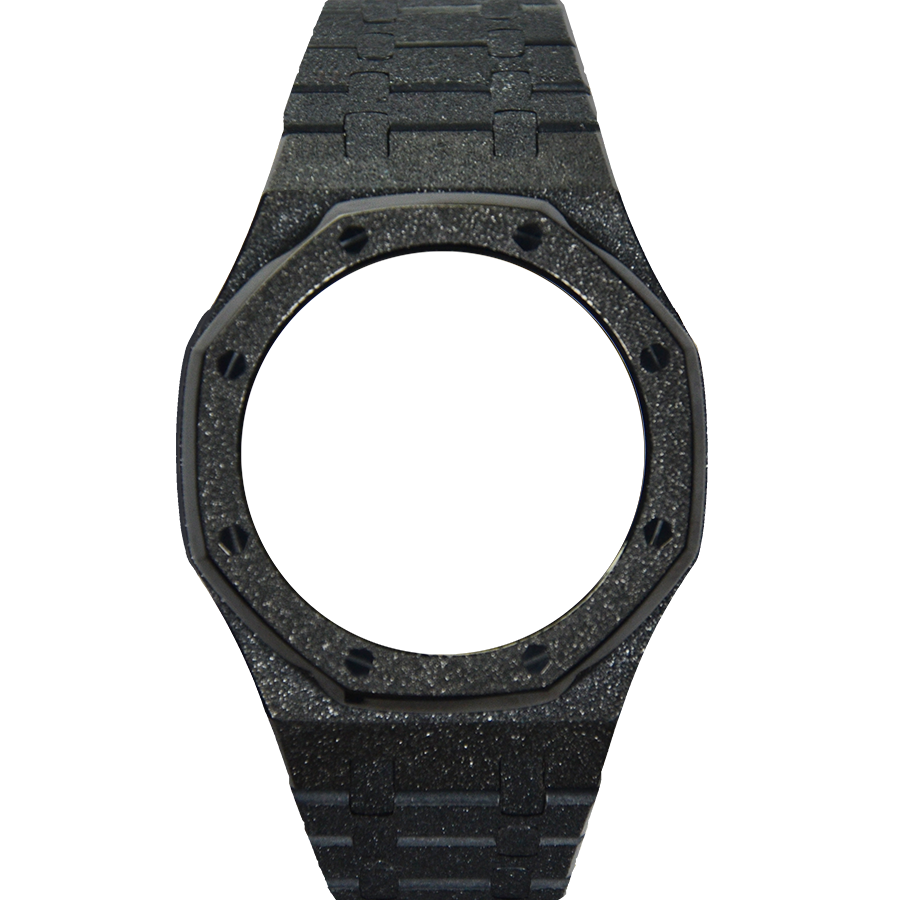
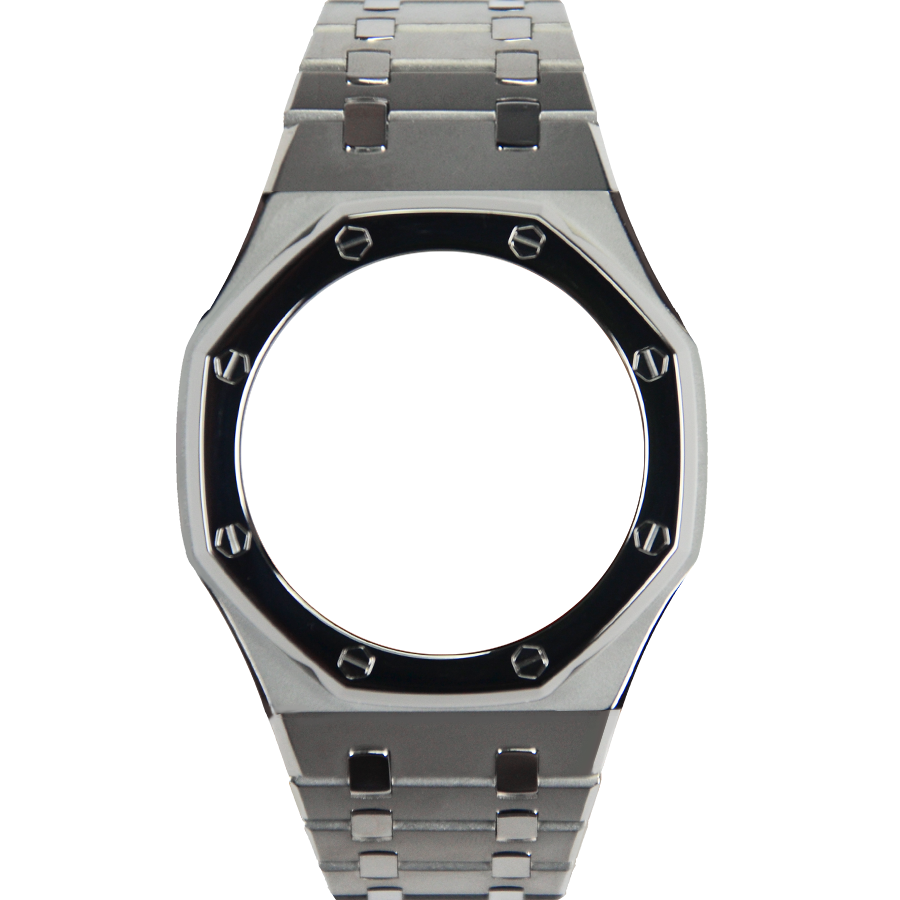
new_metalstraps

Changed region(s): [[0.1867, 0.0, 0.8089, 1.0]]

diff --git a/main_konfigurator/js/main.js b/main_konfigurator/js/main.js
@@ -238,7 +238,7 @@ const groupsCountItems = {
     metal_body: 15,
     transparent_body: 4,
     straps: 13,
-    metal_straps: 14,
+    metal_straps: 15,
     circles: 19,
     arrows: 16,
     clock_points: 20,
